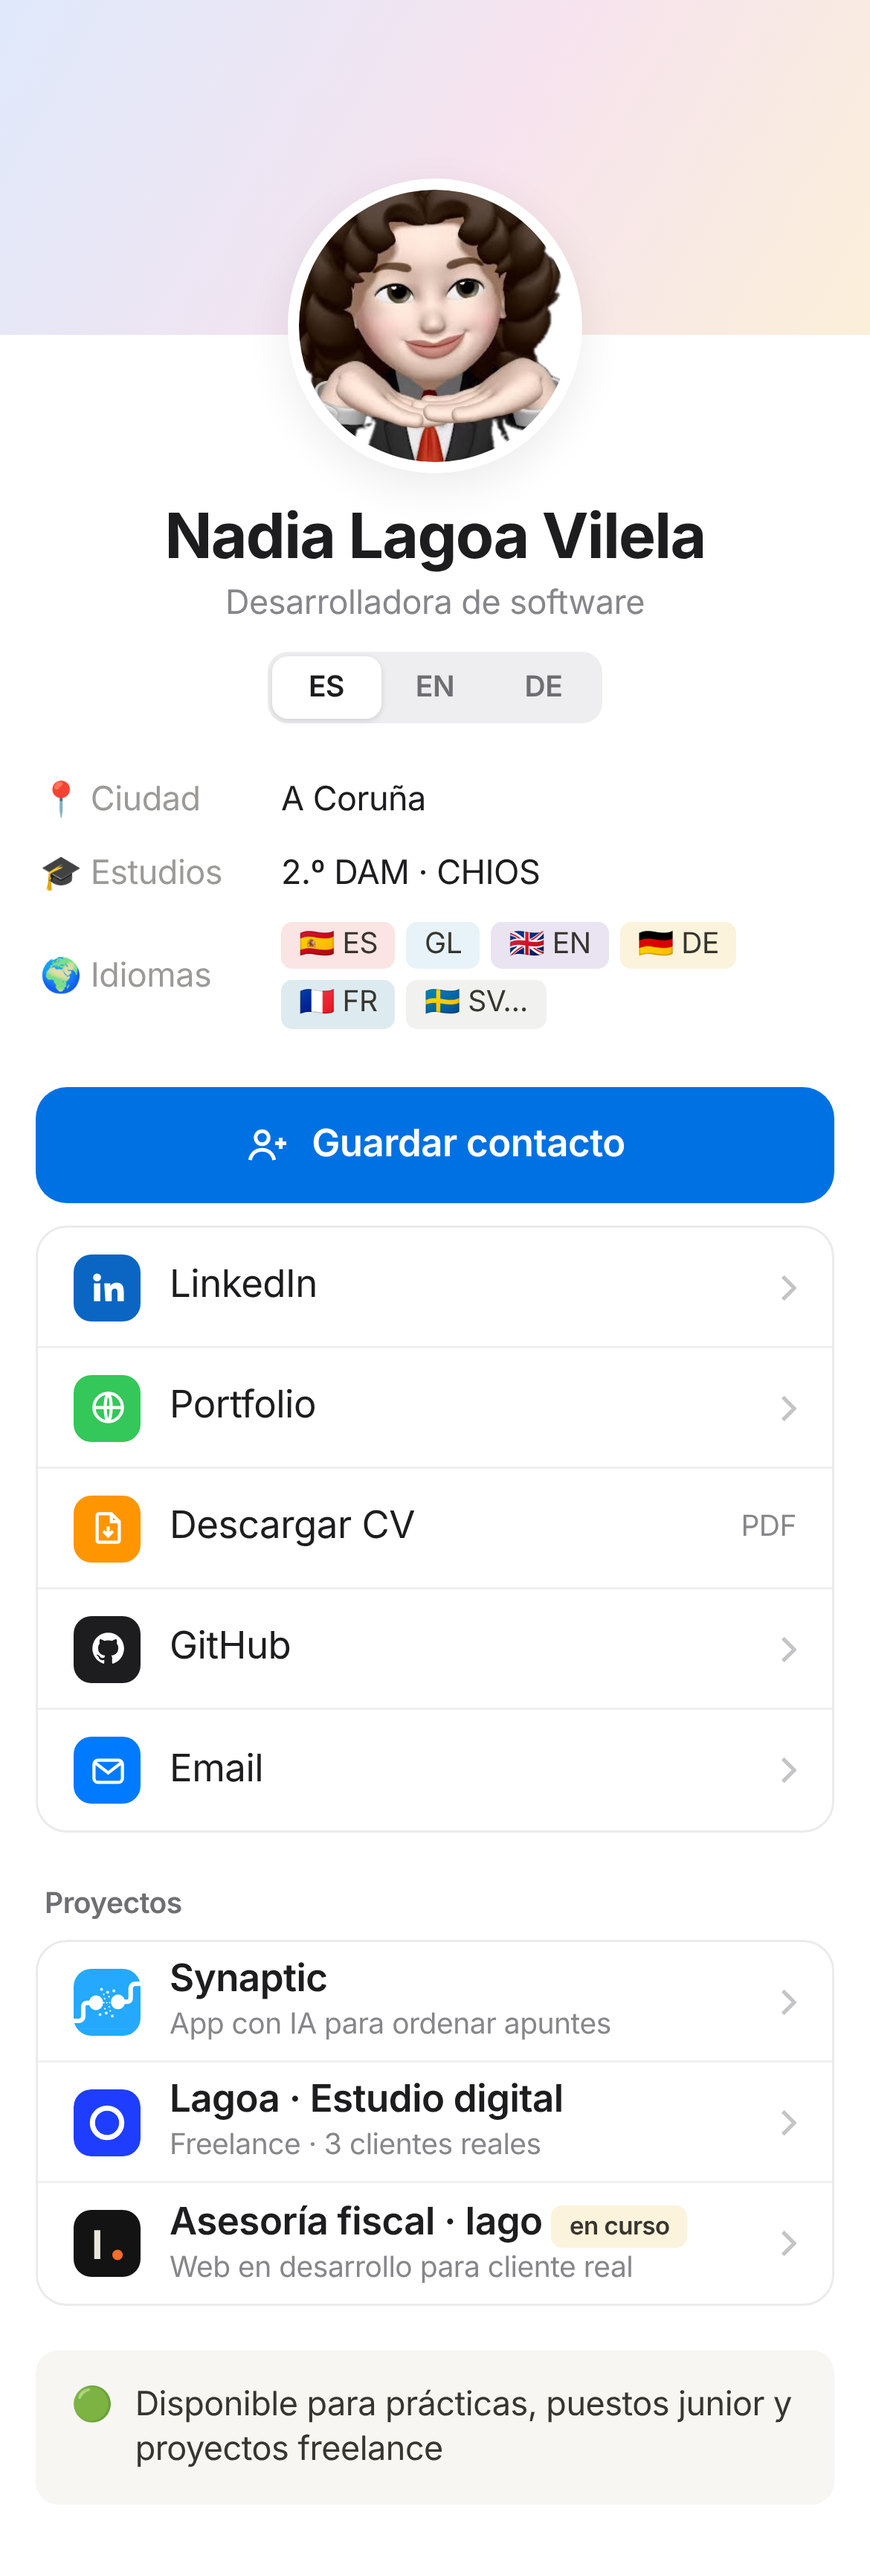
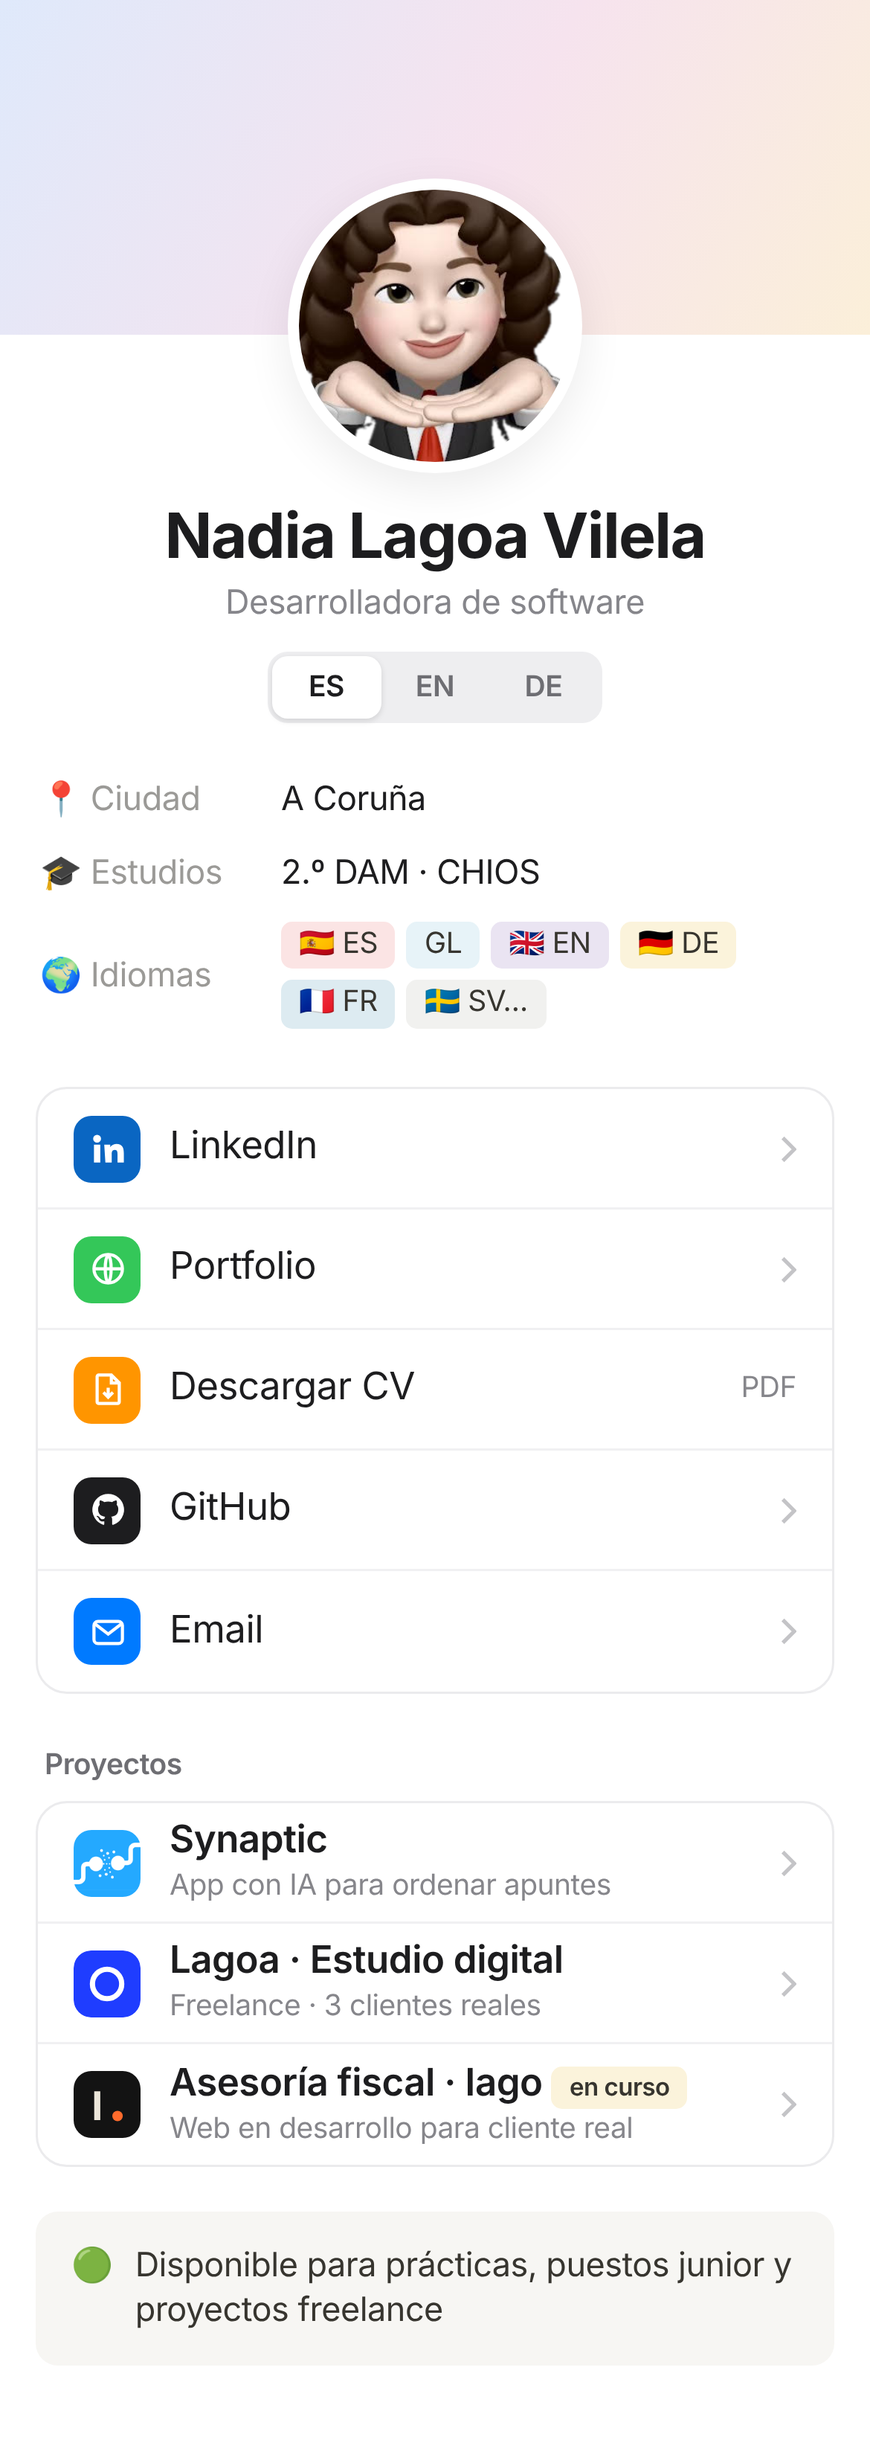
Quitar botón de guardar contacto
Claude-Session: https://claude.ai/code/session_012gZcx71BmCNMhoCCkeSb98

diff --git a/index.html b/index.html
@@ -98,9 +98,6 @@ footer{margin-top:36px;text-align:center}
   </header>
 
   <ul class="links" id="links">
-    <li><a class="btn primary" href="nadia-lagoa.vcf" download="Nadia-Lagoa-Vilela.vcf">
-      <svg viewBox="0 0 24 24" fill="none" stroke="currentColor" stroke-width="1.8" aria-hidden="true"><circle cx="9" cy="8" r="3.5"/><path d="M2.5 20c.8-3.6 3.4-5.5 6.5-5.5s5.7 1.9 6.5 5.5M19 8v6M16 11h6"/></svg>
-      <span><span data-i18n="save">Guardar contacto</span><small data-i18n="saveHint">Añádeme a tu agenda</small></span></a></li>
     <li><a class="btn" href="https://www.linkedin.com/in/nadia-lagoa-vilela-a36a7b380/" rel="noopener" target="_blank">
       <svg viewBox="0 0 24 24" fill="currentColor" aria-hidden="true"><path d="M4.98 3.5a2.5 2.5 0 1 1 0 5 2.5 2.5 0 0 1 0-5zM3 9.75h4V21H3zM9.5 9.75h3.8v1.6h.06c.53-1 1.83-2.05 3.77-2.05 4.03 0 4.77 2.6 4.77 6V21h-4v-5.1c0-1.22-.02-2.8-1.7-2.8-1.71 0-1.97 1.33-1.97 2.7V21h-4z"/></svg>
       LinkedIn<svg class="arrow" viewBox="0 0 16 16" fill="none" stroke="currentColor" stroke-width="1.6" aria-hidden="true"><path d="M5 11l6-6M6 5h5v5"/></svg></a></li>
